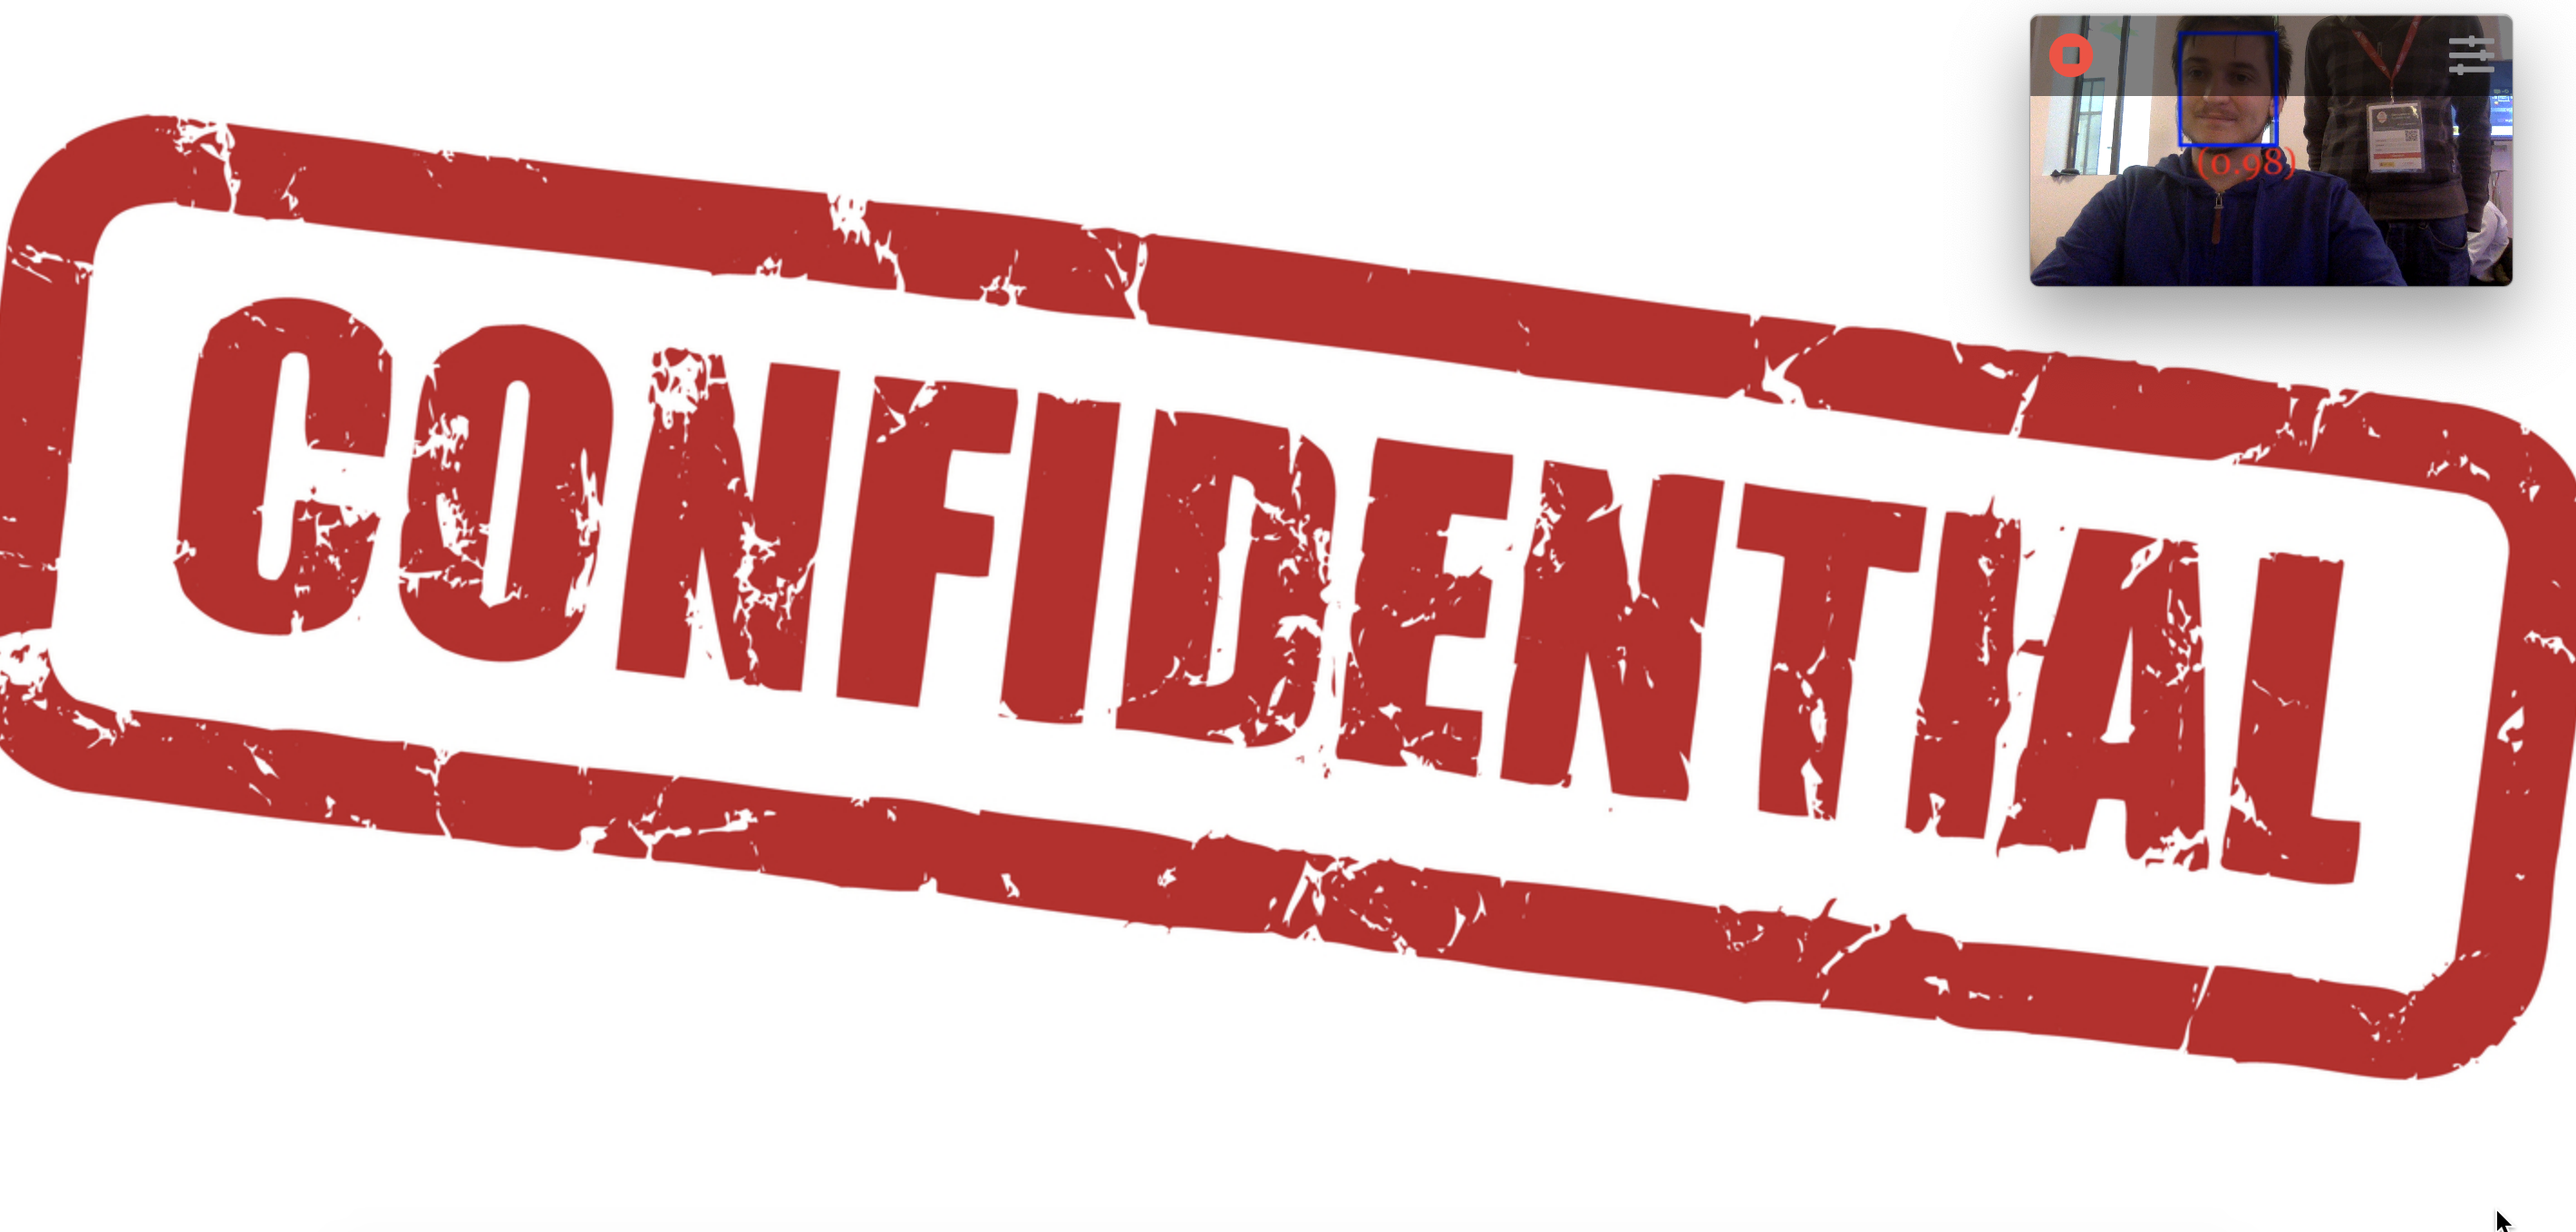
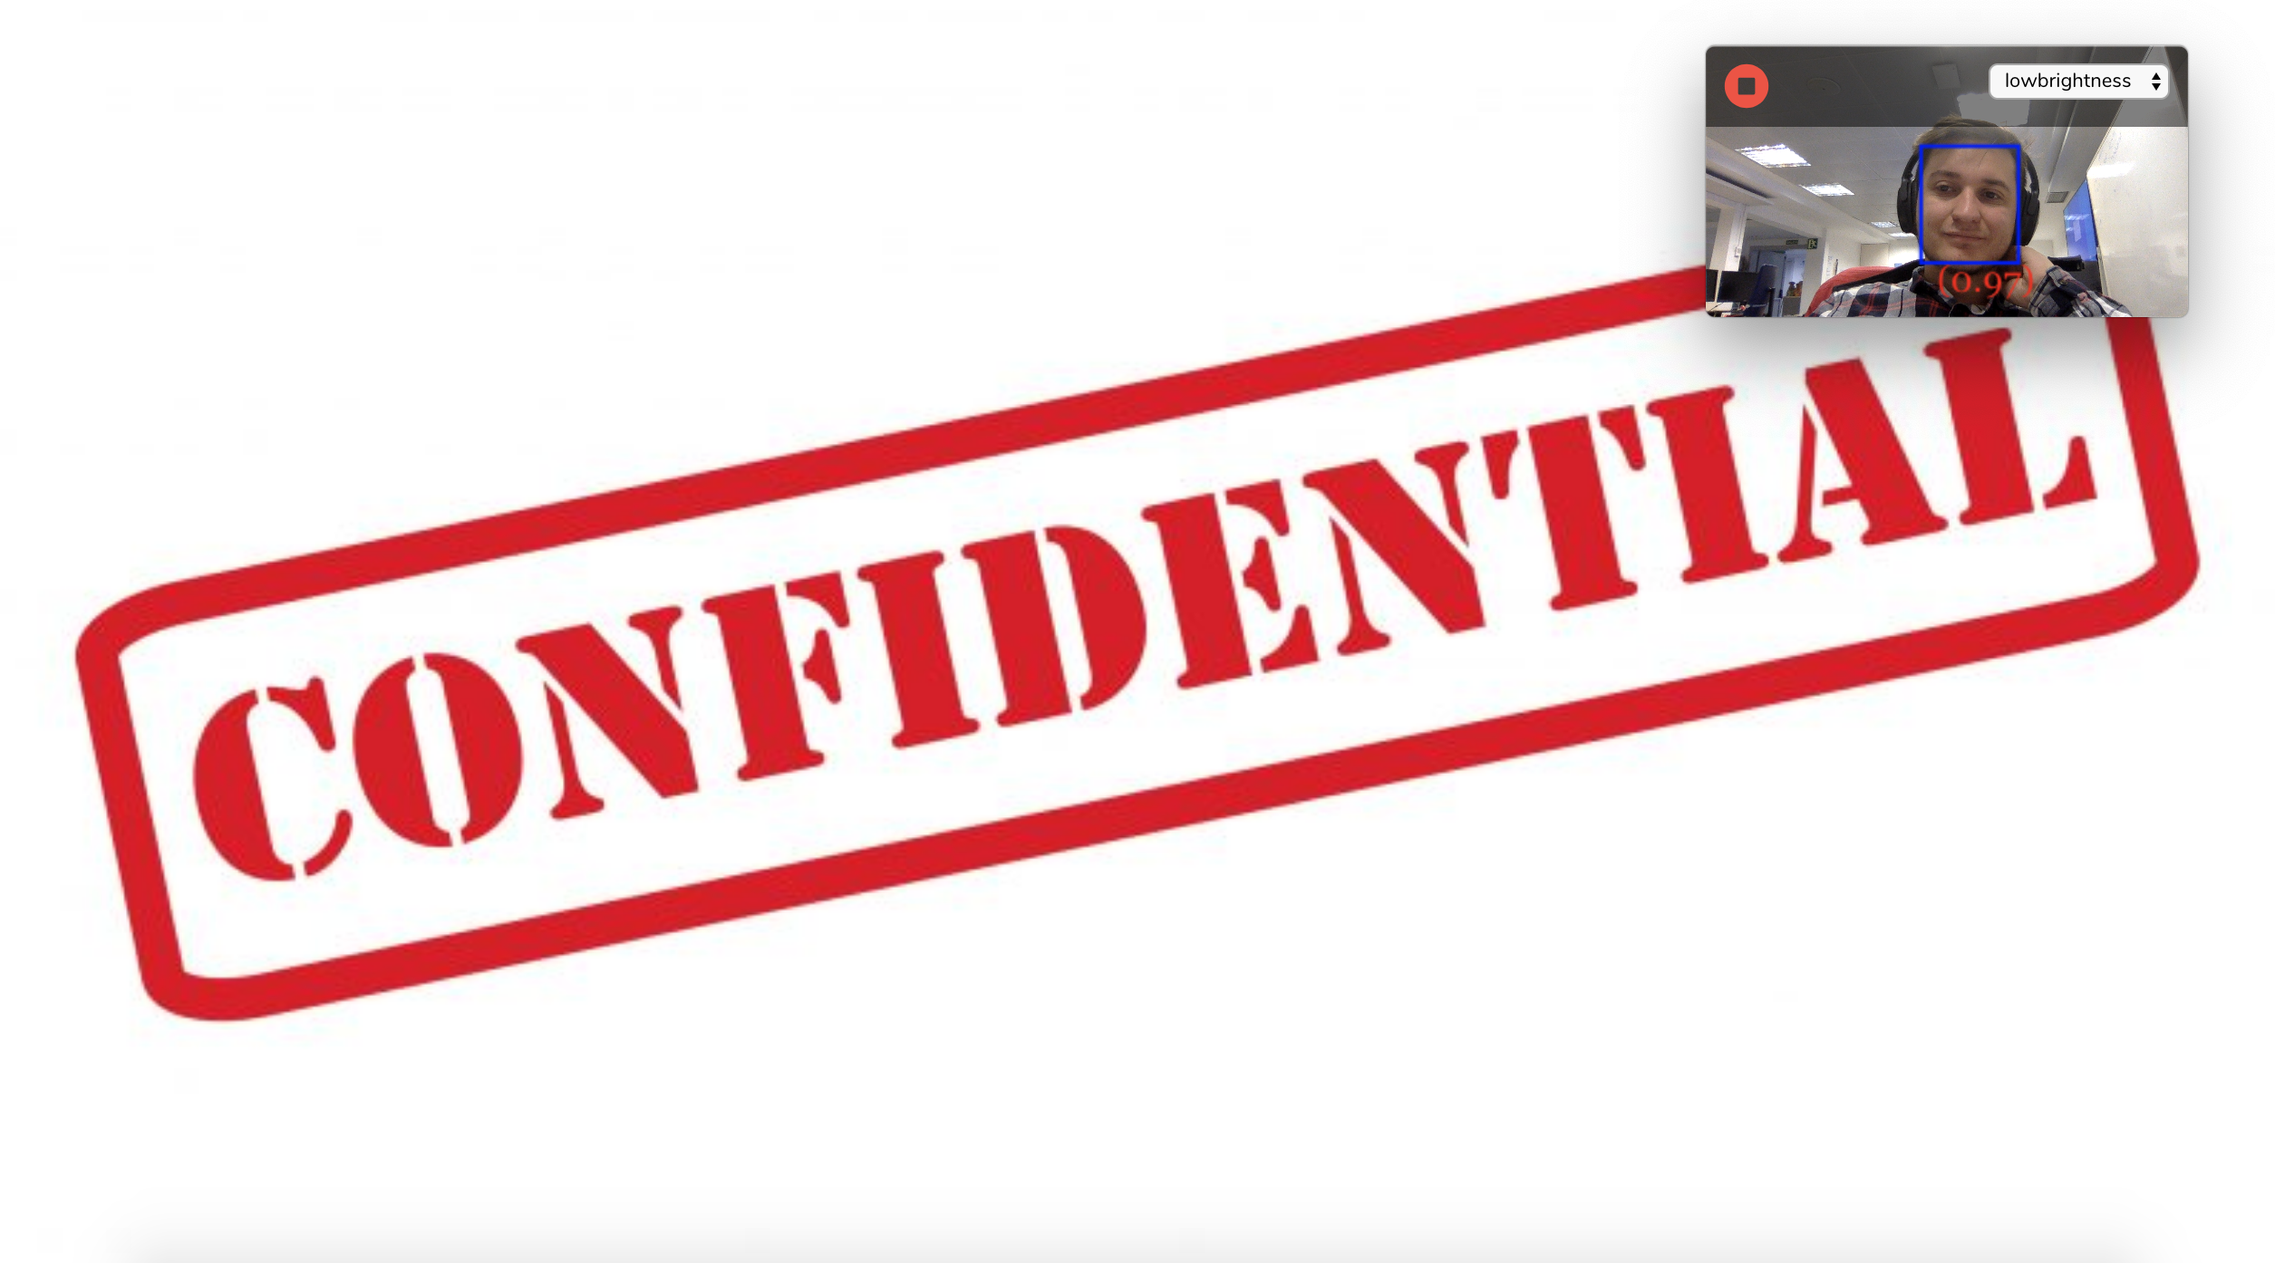
new readme images, no dragable buttons

diff --git a/src/components/Camera.vue b/src/components/Camera.vue
@@ -132,4 +132,93 @@ div
     left: 0
     width: 270px
     height: 150px
+<<<<<<< Updated upstream
+=======
+
+  .play
+    left: 33%
+    right: 33%
+    top: 40%
+    position: absolute
+    height: 33%
+    width: 33%
+    svg.resume
+      -webkit-app-region: no-drag
+      color: #28cd41
+      height: 100%
+      width: 100%
+      cursor: pointer
+    svg.resume:hover
+      color: rgb(0, 125, 27)
+
+  .wrapper
+    width: 100%
+    height: 100%
+    margin: 0
+    padding: 0
+    position: absolute
+    top: 0
+    left: 0
+    -webkit-app-region: drag
+
+  .top-bar
+    position: relative
+    background-color: rgba(0,0,0,0.5)
+    height: 45px
+    z-index: 2
+
+  .control-wrapper
+    position: relative
+    float: left
+    top: 10px
+    left: 10px
+    height: 25px
+    width: 50px
+
+  .settings-wrapper
+    position: relative
+    float: right
+    margin-top: 10px
+    margin-right: 10px
+    height: 25px
+    width: 100px
+
+  #control-icon:hover
+    cursor: pointer
+
+  #control-icon.double
+    width: 55px
+    svg
+      margin-right: 5px
+
+  #control-icon
+    -webkit-app-region: no-drag
+    color: rgb(255, 69, 58)
+    cursor: pointer
+    height: 25px
+    width: 25px
+    svg
+      border-radius: 50%
+      width: 100%
+      height: 100%
+    svg.inline
+      display: inline-block
+      width: 40%
+    svg.stop:hover
+      color: rgb(201, 52, 0)
+    svg.exit:hover
+      color: rgb(201, 52, 0)
+    svg.stop
+      color: rgb(255, 69, 58)
+    svg.exit
+      color: rgb(255, 69, 58)
+
+  .menu
+    position: absolute
+    right: 0
+    top: 0
+    z-index: 1
+    width: 200px
+    height: 100%
+>>>>>>> Stashed changes
 </style>

diff --git a/src/components/SettingNav.vue b/src/components/SettingNav.vue
@@ -86,6 +86,7 @@ export default {
       input
         margin-right: 5px
     select
+      -webkit-app-region: no-drag
       display: block
       width: 100%
 
